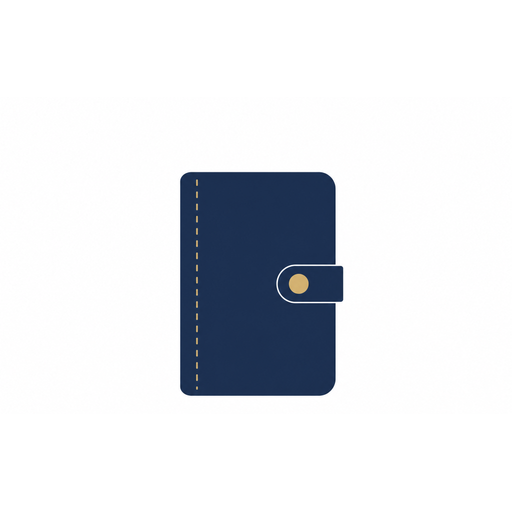
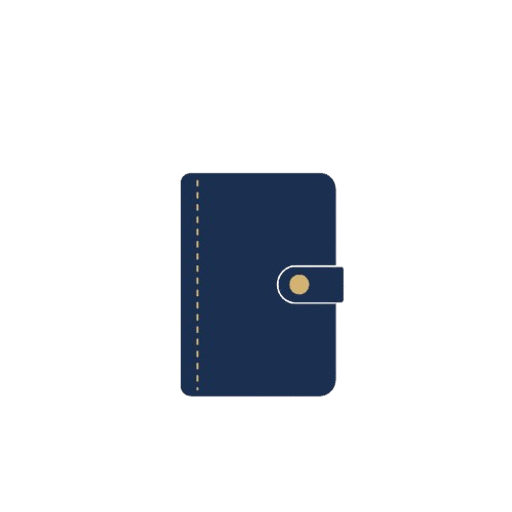
파비콘/아이콘 전체 재생성 + FE 적용

Changed region(s): [[0.375, 0.4688, 0.6562, 0.7812], [0.5312, 0.5, 0.6875, 0.625], [0.375, 0.3125, 0.625, 0.4375]]

diff --git a/memoria-fe/src/components/diary/WeekView/WeekView.tsx b/memoria-fe/src/components/diary/WeekView/WeekView.tsx
@@ -128,38 +128,14 @@ export default function WeekView() {
 
   return (
     <div className={styles.container}>
-      {/* 고정 헤더: 종일 + 요일/날짜 */}
+      {/* 고정 헤더: 요일/날짜 + 종일 이벤트 */}
       <div className={styles.fixedHeader}>
-        {/* 종일 행 */}
-        <div className={styles.headerRow}>
-          <div className={styles.gutterCell}>종일</div>
-          {weekDays.map((day) => {
-            const dayAllDay = getAllDayEventsForDay(day);
-            return (
-              <div
-                key={`allday-${day.toISOString()}`}
-                className={`${styles.allDayCell} ${isToday(day) ? styles.todayColumn : ''}`}
-              >
-                {dayAllDay.map((event) => (
-                  <div
-                    key={event.eventId}
-                    className={styles.allDayEvent}
-                    style={{ backgroundColor: getEventColor(event) }}
-                  >
-                    {event.title}
-                  </div>
-                ))}
-              </div>
-            );
-          })}
-        </div>
-
-        {/* 요일/날짜 행 */}
         <div className={styles.headerRow}>
           <div className={styles.gutterCell} />
           {weekDays.map((day) => {
             const today = isToday(day);
             const dayOfWeek = day.getDay();
+            const dayAllDay = getAllDayEventsForDay(day);
             return (
               <div
                 key={`header-${day.toISOString()}`}
@@ -173,6 +149,19 @@ export default function WeekView() {
                 <span className={`${styles.dayDate} ${today ? styles.dayDateToday : ''}`}>
                   {format(day, 'd')}
                 </span>
+                {dayAllDay.length > 0 && (
+                  <div className={styles.allDayEvents}>
+                    {dayAllDay.map((event) => (
+                      <div
+                        key={event.eventId}
+                        className={styles.allDayEvent}
+                        style={{ backgroundColor: getEventColor(event) }}
+                      >
+                        {event.title}
+                      </div>
+                    ))}
+                  </div>
+                )}
               </div>
             );
           })}

diff --git a/memoria-fe/src/components/diary/WeekView/WeekView.module.css b/memoria-fe/src/components/diary/WeekView/WeekView.module.css
@@ -29,26 +29,6 @@
   padding: 6px 8px 6px 0;
 }
 
-/* 종일 이벤트 */
-.allDayCell {
-  border-left: 1px solid var(--color-border);
-  padding: 2px 4px;
-  min-height: 28px;
-  display: flex;
-  flex-direction: column;
-  gap: 1px;
-}
-
-.allDayEvent {
-  padding: 1px 6px;
-  border-radius: 4px;
-  font-size: 11px;
-  color: #fff;
-  white-space: nowrap;
-  overflow: hidden;
-  text-overflow: ellipsis;
-}
-
 /* 요일 헤더 셀 */
 .dayHeaderCell {
   text-align: center;
@@ -94,6 +74,25 @@
   background: var(--color-accent);
   color: #fff;
   font-weight: 600;
+}
+
+/* 종일 이벤트 (헤더 셀 내부) */
+.allDayEvents {
+  display: flex;
+  flex-direction: column;
+  gap: 1px;
+  width: 100%;
+  padding: 2px 4px 0;
+}
+
+.allDayEvent {
+  padding: 1px 6px;
+  border-radius: 4px;
+  font-size: 10px;
+  color: #fff;
+  white-space: nowrap;
+  overflow: hidden;
+  text-overflow: ellipsis;
 }
 
 /* 스크롤 영역 — 스크롤바 숨기고 스크롤 유지 (헤더 정렬 깨짐 방지) */

diff --git a/CLAUDE.md b/CLAUDE.md
@@ -46,24 +46,24 @@
 
 ## 배포 정보
 
-| 항목 | 값 |
-|------|------|
-| **레포** | BlueDeveloper/memoria |
-| **FE 배포** | Cloudflare Pages (main push 자동) |
-| **BE 배포** | OCI (152.69.235.170:8084) systemctl |
-| **BE 서비스** | memoria-be.service (systemd) |
-| **DB 스키마** | MEMORIA (dev/prod 공유) |
-| **도메인** | 미정 |
+| 항목         | 값                                   |
+| ---------- | ----------------------------------- |
+| **레포**     | BlueDeveloper/memoria               |
+| **FE 배포**  | Cloudflare Pages (main push 자동)     |
+| **BE 배포**  | OCI (152.69.235.170:8084) systemctl |
+| **BE 서비스** | memoria-be.service (systemd)        |
+| **DB 스키마** | MEMORIA (dev/prod 공유)               |
+| **도메인**    | 미정                                  |
 
 ### 환경 분리
 
-| 항목 | 개발 (dev) | 운영 (prod) |
-|------|-----------|------------|
-| FE URL | localhost:3000 | memoria.pages.dev |
-| BE URL | localhost:8080 | 152.69.235.170:8084 |
-| DB | MEMORIA@BlueAutoDB (공유) | MEMORIA@BlueAutoDB (공유) |
-| Redis | localhost:6379 | localhost:6379 (서버 내) |
-| BE 배포 | 로컬 gradlew bootRun | scripts/deploy-be.sh |
+| 항목     | 개발 (dev)                 | 운영 (prod)                |
+| ------ | ------------------------ | ------------------------ |
+| FE URL | localhost:3000           | memoria.pages.dev        |
+| BE URL | localhost:8080           | 152.69.235.170:8084      |
+| DB     | MEMORIA\@BlueAutoDB (공유) | MEMORIA\@BlueAutoDB (공유) |
+| Redis  | localhost:6379           | localhost:6379 (서버 내)    |
+| BE 배포  | 로컬 gradlew bootRun       | scripts/deploy-be.sh     |
 
 ## 벤치마킹 대상
 
